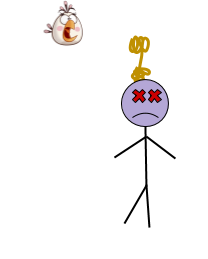
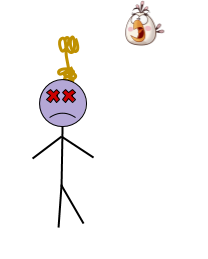
improvements on the layout

diff --git a/index.html b/index.html
@@ -3,46 +3,62 @@
 <head>
     <meta charset="UTF-8">
     <meta name="viewport" content="width=device-width, initial-scale=1.0">
-    <meta http-equiv="X-UA-Compatible" content="ie=edge">
+    <link rel="stylesheet" href="https://stackpath.bootstrapcdn.com/bootstrap/4.3.1/css/bootstrap.min.css" integrity="sha384-ggOyR0iXCbMQv3Xipma34MD+dH/1fQ784/j6cY/iJTQUOhcWr7x9JvoRxT2MZw1T" crossorigin="anonymous">
     <link rel="stylesheet" href="assets/css/style.css">
     <link rel="stylesheet" href="assets/css/animate.css">
     <link href="https://fonts.googleapis.com/css?family=Gloria+Hallelujah&display=swap" rel="stylesheet">
     <title>Word Guess Game - Hangman</title>
 </head>
 <body>
-    <header>
-        <h1>HANGMAN</h1>    
-    </header>
-
-    <summary>
-        <p>Wins: <span id="wins"></span></p>
-        <p>Defeats: <span id="defeats"></span></p>
-        <p>Guesses Remained: <span id="guessesRemained"></span></p>
-        <p>Letters Guessed: <span id="lettersGuessed"></span></p>
-    </summary>
+    <div class="container">
     
+        <div class="row">
+            <div class="col-md-12 text-center">
+                <h1>HANGMAN</h1>  
+                <h7>&copy; 2019 by Carolina Cavalcanti</h7>            
+            </div>
+        </div>
 
-    <aside id="word"></aside>
+        <div class="row">
+            <div class="col-md-12">
+                <p id="message" class="text-center">Press any key to get started!</p>            
+            </div>
+        </div>
+        <div class="row">
+            <div class="col-md-12 text-center">
+                <aside id="word"></aside>
+            </div>
+        </div>
+        
+        <div class="row">
+            
+            <div class="col-md-8 col-xl-6 col-sm-12 col-xs-12 mr-auto">
+                <ul>
+                    <li class="shadow-sm p-1 mb-3 bg-white rounded">Wins: <span id="wins"></span></li>
+                    <li class="shadow-sm p-1 mb-3 bg-white rounded">Defeats: <span id="defeats"></span></li>
+                    <li class="shadow-sm p-1 mb-3 bg-white rounded">Guesses Remained: <span id="guessesRemained"></span></li>
+                    <li class="shadow-sm p-1 mb-3 bg-white rounded">Letters Guessed: <span id="lettersGuessed"></span></li>
+                </ul>
+            </div>
+            <div class="col-md-4 col-xl-6 col-sm-12 col-xs-12 hangman">
+                    <img src="assets/images/hangman-9.png" id="hm9" alt="hangman" z-index="0" class="animated zoomIn">
+                    <img src="assets/images/hangman-8.png" id="hm8" alt="hangman" z-index="1" class="animated swing">
+                    <img src="assets/images/hangman-7.png" id="hm7" alt="hangman" z-index="2" class="animated shake">
+                    <img src="assets/images/hangman-6.png" id="hm6" alt="hangman" z-index="3" class="animated slideInDown">
+                    <img src="assets/images/hangman-5.png" id="hm5" alt="hangman" z-index="4" class="animated slideInRight">
+                    <img src="assets/images/hangman-4.png" id="hm4" alt="hangman" z-index="5" class="animated slideInLeft">
+                    <img src="assets/images/hangman-3.png" id="hm3" alt="hangman" z-index="6" class="animated slideInUp">
+                    <img src="assets/images/hangman-2.png" id="hm2" alt="hangman" z-index="7" class="animated slideInUp">
+                    <img src="assets/images/hangman-1.png" id="hm1" alt="hangman" z-index="8" class="animated rubberBand">
+                
+            </div>    
+        </div>
+    </div>
     
-    <p id="message">Press any key to get started!</p>    
-
-    <div class="hangman"> 
-        <img src="assets/images/hangman-9.png" id="hm9" alt="hangman" z-index="0" class="animated zoomIn">
-        <img src="assets/images/hangman-8.png" id="hm8" alt="hangman" z-index="1" class="animated swing">
-        <img src="assets/images/hangman-7.png" id="hm7" alt="hangman" z-index="2" class="animated shake">
-        <img src="assets/images/hangman-6.png" id="hm6" alt="hangman" z-index="3" class="animated slideInDown">
-        <img src="assets/images/hangman-5.png" id="hm5" alt="hangman" z-index="4" class="animated slideInLeft">
-        <img src="assets/images/hangman-4.png" id="hm4" alt="hangman" z-index="5" class="animated slideInRight">
-        <img src="assets/images/hangman-3.png" id="hm3" alt="hangman" z-index="6" class="animated slideInUp">
-        <img src="assets/images/hangman-2.png" id="hm2" alt="hangman" z-index="7" class="animated slideInUp">
-        <img src="assets/images/hangman-1.png" id="hm1" alt="hangman" z-index="8" class="animated fadeInDown">
-    </div>
-
-    <div class="keyboard">
-
-
-    </div>
 
     <script src="assets/javascript/game.js"></script>
+    <script src="https://code.jquery.com/jquery-3.3.1.slim.min.js" integrity="sha384-q8i/X+965DzO0rT7abK41JStQIAqVgRVzpbzo5smXKp4YfRvH+8abtTE1Pi6jizo" crossorigin="anonymous"></script>
+    <script src="https://cdnjs.cloudflare.com/ajax/libs/popper.js/1.14.7/umd/popper.min.js" integrity="sha384-UO2eT0CpHqdSJQ6hJty5KVphtPhzWj9WO1clHTMGa3JDZwrnQq4sF86dIHNDz0W1" crossorigin="anonymous"></script>
+    <script src="https://stackpath.bootstrapcdn.com/bootstrap/4.3.1/js/bootstrap.min.js" integrity="sha384-JjSmVgyd0p3pXB1rRibZUAYoIIy6OrQ6VrjIEaFf/nJGzIxFDsf4x0xIM+B07jRM" crossorigin="anonymous"></script>    
 </body>
 </html>

diff --git a/assets/css/style.css b/assets/css/style.css
@@ -1,21 +1,28 @@
 @import url('https://fonts.googleapis.com/css?family=Gloria+Hallelujah&display=swap');
 
 *{
-    box-sizing: border-box;
     font-family: 'Gloria Hallelujah', Arial, Helvetica, sans-serif;
 }
-
-header{
-    text-align: center;
+body{
+    background-image: url('../images/background.png');
+    position: relative;
+    top: 0;
 }
-
-
+h1 {
+    padding: 20px;
+}
+aside{
+    min-height: 80px;
+    margin-top: 30px;
+}
 aside div{
     display: inline;
     border-bottom: 1px solid #000;
     margin-right: 5px;
-    padding: 10px;
-    widows: 10px;
+    padding: 5px;
+    margin: 0 5px;
+    font-size: 20px;
+    min-width: 20px;
 }
 
 aside div:empty{
@@ -33,24 +40,41 @@ aside div:empty:before{
 
 p#message{
     color: green;
+    padding: 20px;
+    min-height: 100px;
+    height: 100px;
+    text-align: center;
 }
 
 .hangman{
     position: relative;
     left: 0;
+
 }
 .hangman img{
     position: absolute;
-    left: 0;
+    right: 0;
     top: 0;
     display: none;
-
-    /* animation-duration: 5s;
-    animation-delay: 3s;
-    animation-iteration-count: infinite;     */
 }
 .hangman img:first-child{
     display: block;
 }
 
+ul{
+    list-style: none;
+    padding-top: 30px;
+}
+li {
+    padding: 5px;
+    font-size: 14px;
+    position: relative;
+    left: 0;
+}
+li span {
+    text-align: right;
+    float: right;
+    color: green;
+    font-weight: bold;
+}
 
